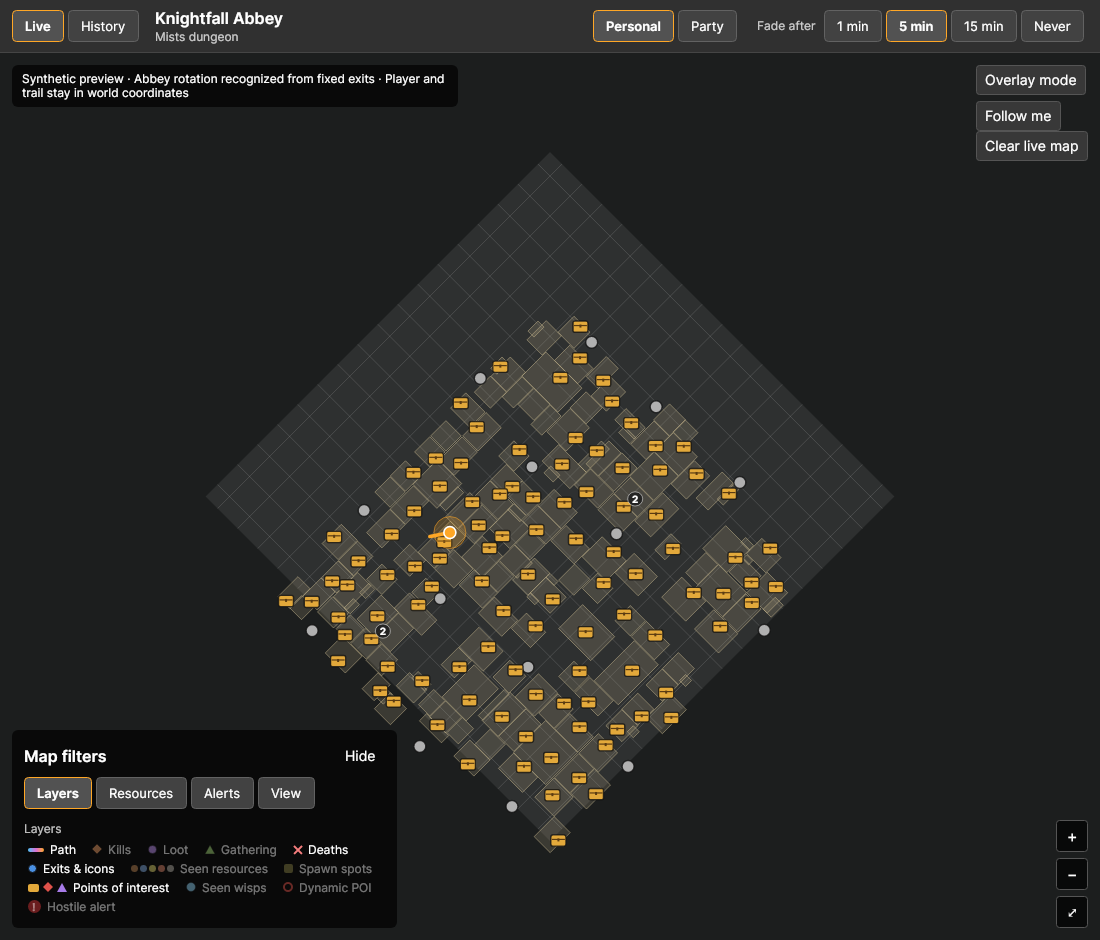
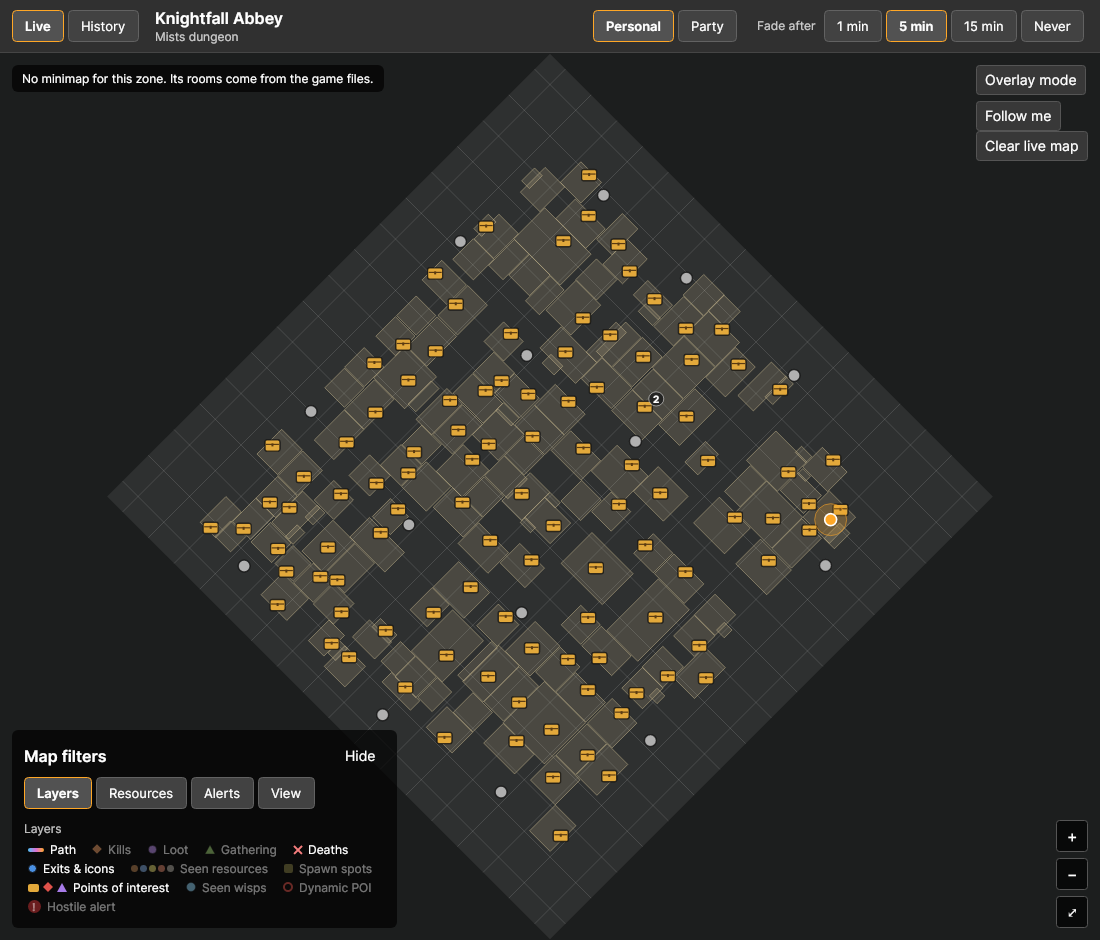
Align turned map bounds and fit unfollowed Live maps

diff --git a/AlbionDataAvalonia/ViewModels/ActivityMapViewModel.cs b/AlbionDataAvalonia/ViewModels/ActivityMapViewModel.cs
@@ -524,7 +524,8 @@ public sealed partial class ActivityMapViewModel : ObservableObject, IDisposable
             return;
         }
 
-        var geometry = zone?.Geometry ?? LiveFallbackGeometry();
+        var turns = LayoutTurns(zone, live.Layout, live.LayoutTurns);
+        var geometry = zone?.Geometry?.Turned(turns) ?? LiveFallbackGeometry();
         Note = live.Position is null ? "Waiting for your position. Take a few steps in game."
             : zone is { Failed: true } ? "Couldn't load map data. Check your connection; your path still shows."
             : WaitingForInstanceOrientation(live.RawMapId, live.LayoutTurns)
@@ -544,7 +545,6 @@ public sealed partial class ActivityMapViewModel : ObservableObject, IDisposable
         }
 
         zone = WithInstanceOrientation(zone, live.RawMapId, live.LayoutTurns);
-        var turns = LayoutTurns(zone, live.Layout, live.LayoutTurns);
         Scene = new ActivityMapScene($"live:{live.RawMapId}:{zone?.Zone?.Id}", geometry, zone?.Image, zone?.Frame, live.Trail, Shown(live.Markers),
             Turned(zone?.Exits ?? [], turns), Turned(zone?.Icons ?? [], turns), live.Position, live.Heading, true, DateTime.UtcNow, FadeSeconds,
             null, null, Layers, turns, ShownResources(live.Resources), ShownResourceMobs(live.ResourceMobs),
@@ -693,7 +693,8 @@ public sealed partial class ActivityMapViewModel : ObservableObject, IDisposable
         TimelineNowText = until is { } moment ? UiFormat.LocalTime(moment) : "";
         var markers = Shown(option.Markers);
         var points = option.Points.Select(x => (x.X, x.Y)).Concat(markers.Select(x => (x.X, x.Y))).ToArray();
-        var geometry = zone?.Geometry ?? (points.Length == 0 ? null
+        var turns = LayoutTurns(zone, option.Layout, option.LayoutTurns);
+        var geometry = zone?.Geometry?.Turned(turns) ?? (points.Length == 0 ? null
             : FallbackGeometry((points.Min(x => x.X), points.Min(x => x.Y), points.Max(x => x.X), points.Max(x => x.Y))));
         Note = zone is { Failed: true } ? "Couldn't load map data. Check your connection; your path still shows."
             : WaitingForInstanceOrientation(option.RawMapId, option.LayoutTurns)
@@ -709,7 +710,6 @@ public sealed partial class ActivityMapViewModel : ObservableObject, IDisposable
         }
 
         zone = WithInstanceOrientation(zone, option.RawMapId, option.LayoutTurns);
-        var turns = LayoutTurns(zone, option.Layout, option.LayoutTurns);
         Scene = new ActivityMapScene($"history:{runMap.Run.Id}:{option.RawMapId}:{zone?.Zone?.Id}", geometry, zone?.Image, zone?.Frame, option.Points,
             markers, Turned(zone?.Exits ?? [], turns), Turned(zone?.Icons ?? [], turns), null, null, false, DateTime.UtcNow, 0, option.StartUtc, until,
             Layers, turns, ResourceSpawns: SpawnSpots(zone, option.RawMapId, option.Layout, option.LayoutTurns),

diff --git a/AlbionDataAvalonia/Maps/MapModels.cs b/AlbionDataAvalonia/Maps/MapModels.cs
@@ -122,6 +122,31 @@ public sealed class MapImageGeometry
             Math.Ceiling((sourceHeight + rotatedHeight) / 2) - Math.Floor((sourceHeight - rotatedHeight) / 2));
     }
 
+    /// <summary>The world bounds after turning a template about the world origin, just like its features.</summary>
+    public MapImageGeometry Turned(int quarterTurns)
+    {
+        var turns = (quarterTurns % 4 + 4) % 4;
+        if (turns == 0) return this;
+        static MapPoint Turn(MapPoint point, int count)
+        {
+            for (var i = 0; i < count; i++) point = new(point.Y, -point.X);
+            return point;
+        }
+        var a = Turn(Min, turns);
+        var b = Turn(Max, turns);
+        return From(new(Math.Min(a.X, b.X), Math.Min(a.Y, b.Y)),
+            new(Math.Max(a.X, b.X), Math.Max(a.Y, b.Y)))!;
+    }
+
+    /// <summary>The world point at a fraction of the minimap canvas, also outside its bounds while panning.</summary>
+    public MapPoint FromImageFraction(double x, double y)
+    {
+        var rotatedX = (x - 0.5) * CanvasWidth;
+        var rotatedY = (0.5 - y) * CanvasHeight;
+        return new((Min.X + Max.X) / 2 + rotatedX * Cosine + rotatedY * Sine,
+            (Min.Y + Max.Y) / 2 - rotatedX * Sine + rotatedY * Cosine);
+    }
+
     /// <summary>Where a local point lands on the minimap, as a fraction of its width and height.</summary>
     public MapPoint ToImageFraction(double x, double y)
     {

diff --git a/AlbionDataAvalonia/Views/ActivityMapCanvas.cs b/AlbionDataAvalonia/Views/ActivityMapCanvas.cs
@@ -122,7 +122,7 @@ public sealed class ActivityMapCanvas : Control
             .Select(x => ImagePoint(scene, x.X, x.Y)).Concat(scene.Markers.Select(x => ImagePoint(scene, x.X, x.Y))).ToArray();
         if (scene.IsLive || points.Length < 2)
         {
-            zoom = scene.IsLive && scene.Position is not null ? LiveZoom : 1;
+            zoom = scene.IsLive && scene.Position is not null && Follow ? LiveZoom : 1;
             center = new Point(size.Width / 2, size.Height / 2);
         }
         else
@@ -146,6 +146,14 @@ public sealed class ActivityMapCanvas : Control
         base.OnPropertyChanged(change);
         if (change.Property != SceneProperty || Scene is not { } scene) return;
         var newView = scene.ViewKey != viewKey;
+        if (!newView && !Follow && change.OldValue is ActivityMapScene previous
+            && (previous.Geometry.Min != scene.Geometry.Min || previous.Geometry.Max != scene.Geometry.Max))
+        {
+            // A newly recognized turn changes the projection frame, not the world point the user is looking at.
+            var previousSize = ImageSize(previous);
+            var world = previous.Geometry.FromImageFraction(center.X / previousSize.Width, center.Y / previousSize.Height);
+            center = ImagePoint(scene, world.X, world.Y);
+        }
         Glide(scene, newView);
         if (newView)
         {

diff --git a/docs/DEVELOPMENT.md b/docs/DEVELOPMENT.md
@@ -259,3 +259,14 @@ The Depths already used the same matching principle, but part of the generated r
 `generate-depths-map-data.py` now expands fixed exit/shrine compounds using [`cluster/tiles.xml` at the same game-data revision as the templates](https://github.com/ao-data/ao-bin-dumps/tree/1a469e53de028c5f85cdd80505f10cbd0a2515cf), their selected layers, nested scale/rotation/translation, and exact object tile names. Broken/decorative exits do not become landmarks. It shares `template_geometry.py` with the resource-spawn exporter; regenerating resource candidates yields identical data. Direct altar node positions, random camp-slot semantics and recognition confidence are unchanged. The generated reference and visible possible exit/shrine POIs use the corrected coordinates. This proves and fixes a reference-data mismatch; it does not establish which event parameters the current Windows game sends.
 
 Validation uses an external fixture, outside the repository test suite: decoded production subscriptions and Join lifecycle for outdoor Mists/Abbey/Depths, four rotations, duplicate/malformed/outlier rejection, offline map loading, re-entry caching and native Live/History geometry. Numeric compound examples above are checked independently of POI-to-recognizer round trips. Existing PoW tests remain the repository test suite. Live Windows packet capture remains outstanding: confirm key 0/key 1 envelopes for Abbey exits and the five Depths events. No arbitrary coordinate-key fallback or guessed orientation is introduced; packet diagnostics must be enabled before entry if recognition still receives no landmarks.
+
+
+### Turned projection bounds and schematic-map limitations
+
+Rotating features is not enough when a template is offset from the world origin. Abbey has bounds `(-430,-330)` to `(430,530)`, centred at `(0,100)`. At one clockwise quarter-turn, its correct bounds are `(-330,-430)` to `(530,430)`, centred at `(100,0)`. Previously Live/History rotated rooms and POIs but retained the original projection bounds, so the schematic drifted relative to the grid. Earlier checks confirmed rotated feature coordinates but missed this projection-frame mismatch.
+
+`MapImageGeometry.Turned` rotates bounds about the same world origin as template features. Both scene builders use that geometry for all world-space drawing. The original cached zone remains in template coordinates. For square minimaps, projecting a turned world point now agrees with rotating the source image about its centre. All 23 bundled outdoor Mists master bounds are square. `FromImageFraction` provides the inverse projection; when recognition changes the frame in the same view, an unfollowed camera preserves the world point under its centre instead of jumping. Follow mode still centres on the character. Fitting an unfollowed Live view now uses whole-zone zoom; only following keeps the close-up zoom.
+
+Abbey still has **no terrain bitmap in the application's bundled data**. Its room rectangles come from template metadata, not a complete navigable-floor, corridor or wall map. `MISTS_DNG_UND_MINIMAP_STATIC_01` in the checked game XML only places an atmosphere object; `minimapgendata.xml` contains texture-generation metadata, not the generated image. A textured underlay has not been obtained or verified. The native “No minimap…” message remains visible; screenshots must not replace it with an assertion that recognition is verified in game. Possible chest spots are optional POIs, initially off, not observed chests.
+
+The external frame fixture independently specifies all four expected Abbey bound pairs, checks projection covariance and inverse round trips (including non-square bounds and off-map pans), verifies all rooms/exits/POIs stay within the turned Live/History bounds, and checks native camera-anchor preservation and Follow/whole-zone fit. Screenshots use the production fit action with Follow off, with optional POIs off/on. The short synthetic path lies within a known room for the shown turn; it is not a recorded gameplay route. This validates the drawing math and fallback presentation, not the current Windows packet envelopes or agreement with the game's textured minimap.

diff --git a/README.md b/README.md
@@ -327,7 +327,7 @@ If the Windows client closes and opens again, check the log for **Closing client
 
 ### Knightfall Abbey map
 
-Knightfall Abbey uses a built-in schematic of its rooms, exits and possible boss chest spots. It also works when the game supplies no layout name or the map CDN is unavailable. The map determines its rotation from two different exits back to the Mists. Until then, your path and observed objects show on a grid. The placement is remembered for that instance until the app closes. Chest spots are possible locations, not confirmation that a chest has spawned.
+Knightfall Abbey currently uses a schematic of rectangular rooms, exits and possible boss chest spots, without a terrain texture or complete corridor/wall geometry. It also works when the game supplies no layout name or the map CDN is unavailable. The map determines its rotation from two different exits back to the Mists. Until then, your path and observed objects show on a grid. The placement is remembered for that instance until the app closes. With Follow me off, the fit button shows the full zone. Chest spots are possible locations, not confirmation that a chest has spawned.
 
 ### Depths map recognition
 
